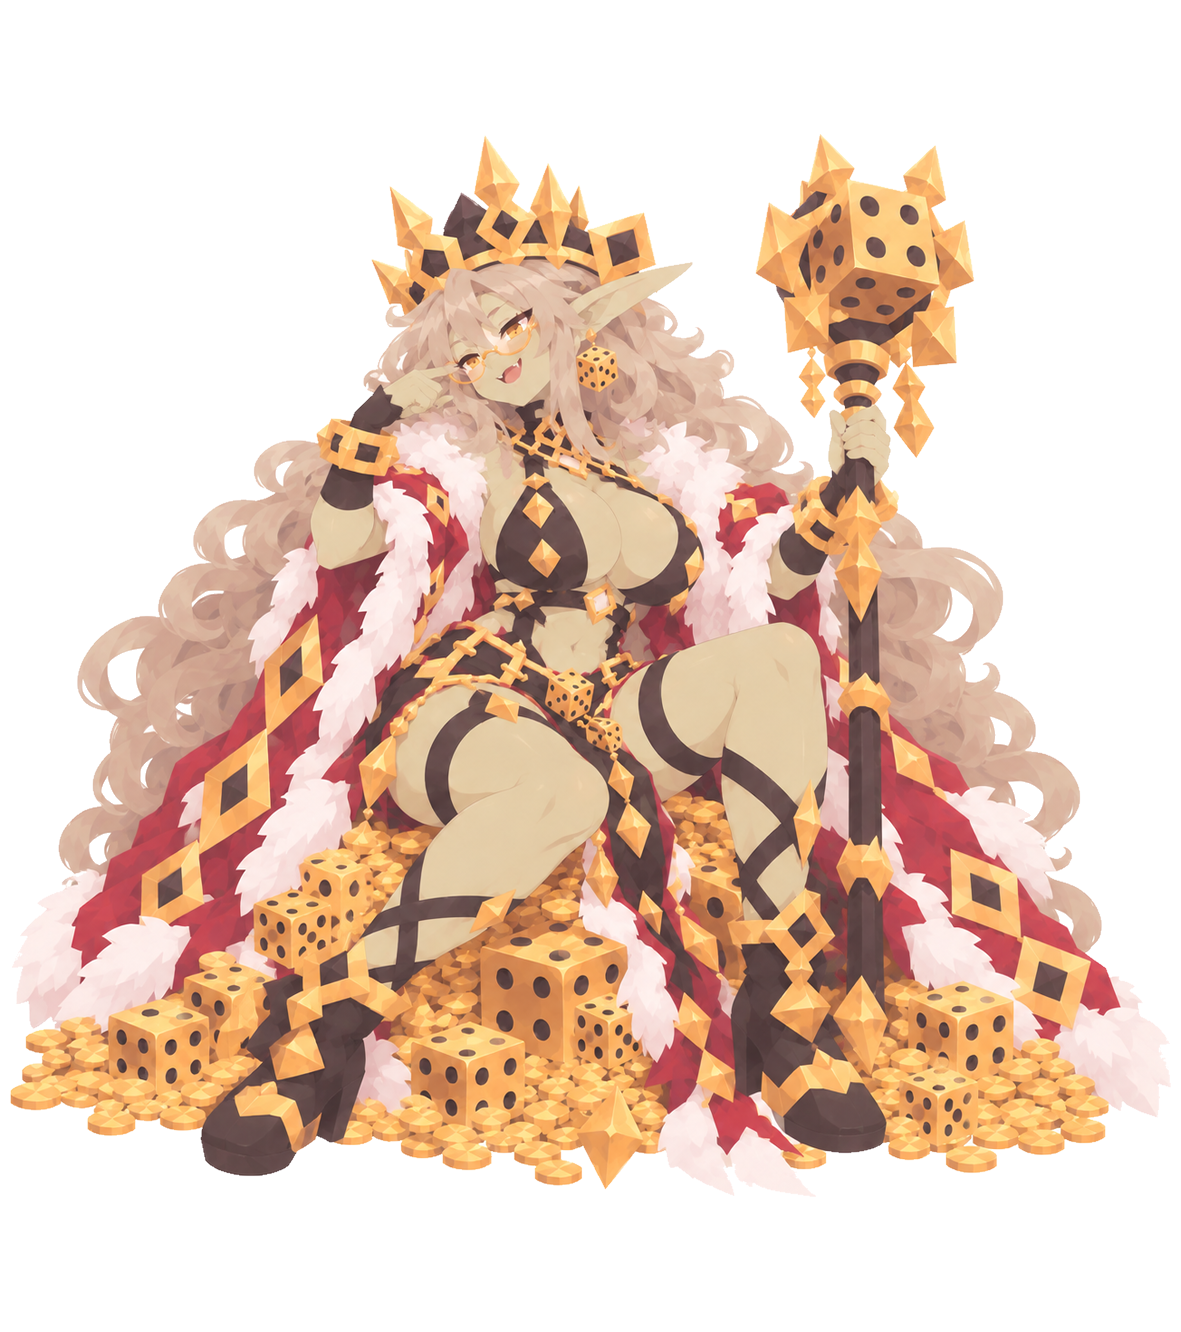
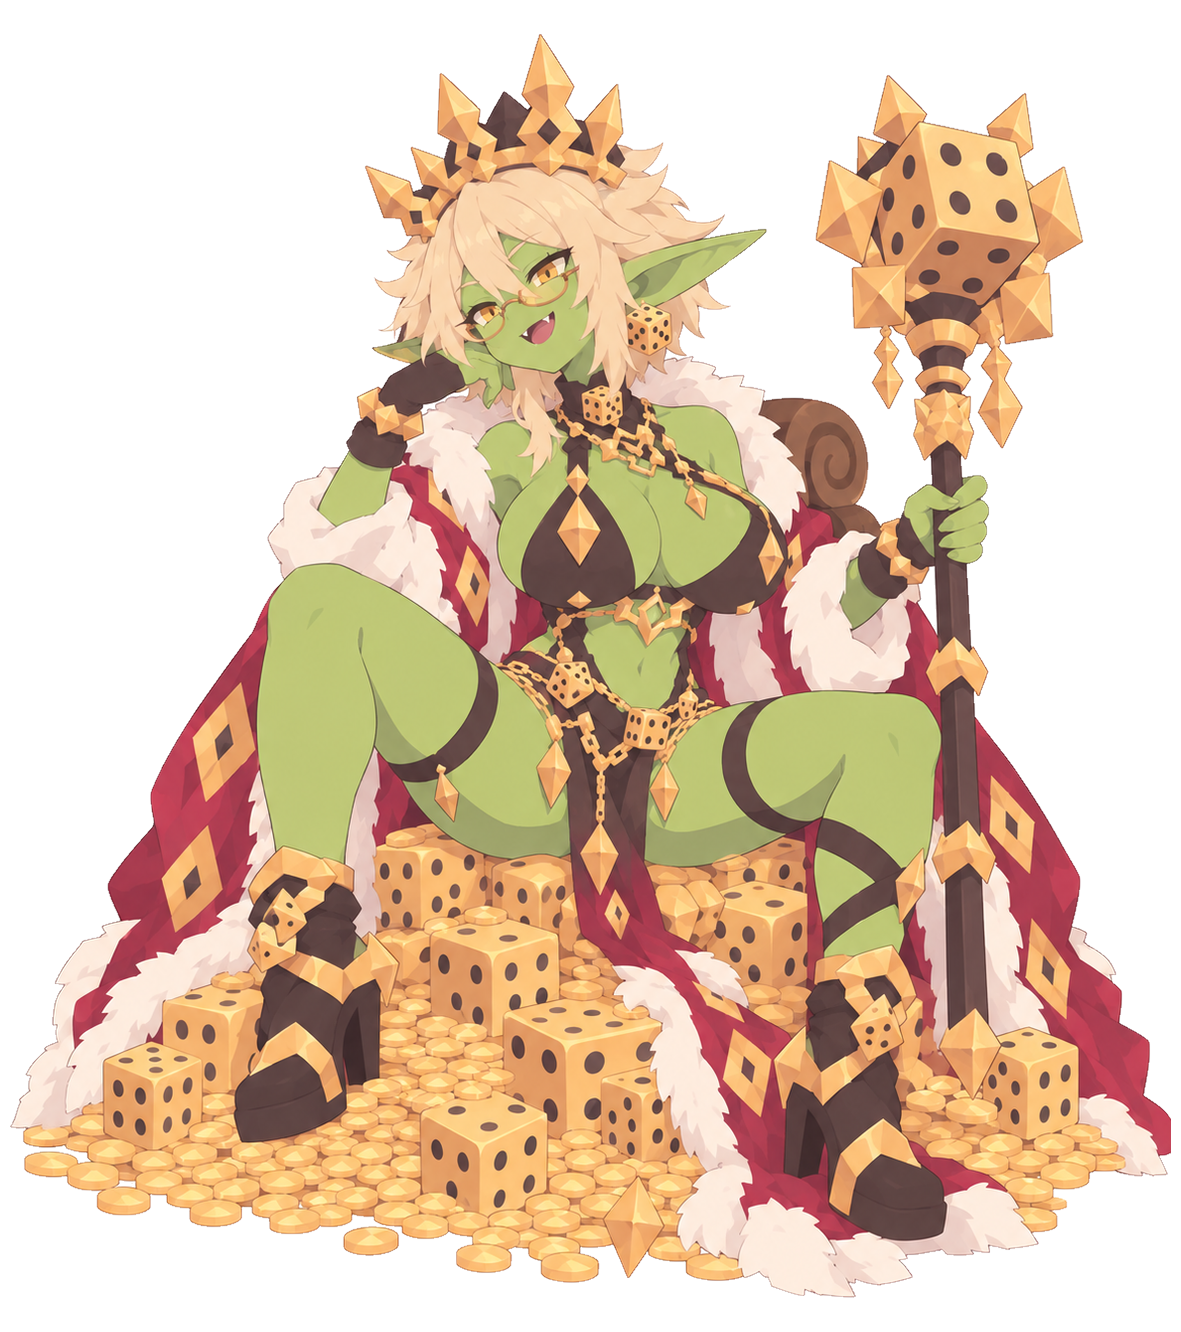
feat(art): 고블린 왕 최종 확정 — 셀프컷 더벅머리·편하게 앉은 자세·초록 피부 고블린 아인

diff --git a/docs/art/ART_RESOURCES.md b/docs/art/ART_RESOURCES.md
@@ -658,13 +658,13 @@ Work는 `resources/ui/` 이미지가 있으면 StyleBoxTexture로 쓰고, 없으
 
 | 순서 | 대상 | 모은 요청 | 상태 |
 |---|---|---|---|
-| 1 | 고블린 왕 | (2차 피드백) 헤어 재시안 — 긴 웨이브 금지, 무식하고 관리 안 된 느낌. 포즈는 확정본(앉은 자세) 유지 | 시안 D/E/F 제출(`qa_out/r3/gk_hair.png`) — 선택 대기 |
-| 2 | 영계의 지배자 | 헤어 B(가는 트윈테일) 킵 + A 히메컷 **롱 버전** + 다른 헤어 여러 개. 포즈 ①(목 꺾임) 기준, 머리·몸 뒤틀림 조정, 다리는 꺾이듯 무너진 느낌(실제 골절 아님). 검은 배경 | 2차 시안 5종 제출(B·A롱·떠오르는 롱·울프컷·로우번, `qa_out/r3/sg_hair2.png`) — 선택 대기 |
+| 1 | 고블린 왕 | ✅ 2026-10-21 **최종 확정·적용** (셀프컷 더벅머리, 다리 벌려 앉기, 초록 피부 고블린 아인. 원본 `_reference/monsters/goblin_king/mo_goblin_king_full_v7.png`, 이전본 `full_before_r3.png`). (3차) **헤어 D(셀프컷 더벅머리) 채택** — 나뭇가지·잎 제거, 다리 편하게 벌려 앉기, 피부 균일한 초록의 확실한 고블린 아인. (2차) 헤어 재시안 — 긴 웨이브 금지, 무식하고 관리 안 된 느낌. 포즈는 확정본(앉은 자세) 유지 | 시안 D/E/F 제출(`qa_out/r3/gk_hair.png`) — 선택 대기 |
+| 2 | 영계의 지배자 | (4차) 피부는 짙은 잿빛 말고 창백한 잿빛. 목각 인형처럼 목·다리가 꺾인 모양새로 섬뜩하게. (3차) **헤어 H(울프컷) 채택** — 정면 응시, 더 섬뜩한 웃음, 가슴 훨씬 작게, 피부는 어두운 잿빛, 맨발. (2차) 헤어 B(가는 트윈테일) 킵 + A 히메컷 **롱 버전** + 다른 헤어 여러 개. 포즈 ①(목 꺾임) 기준, 머리·몸 뒤틀림 조정, 다리는 꺾이듯 무너진 느낌(실제 골절 아님). 검은 배경 | 2차 시안 5종 제출(B·A롱·떠오르는 롱·울프컷·로우번, `qa_out/r3/sg_hair2.png`) — 선택 대기 |
 | 3 | 광란의 마수 | 헤어 사자갈기 + 엎드려 덮치기 직전 자세 | 시안 2종 제출(`qa_out/r3/fb.png`) — 선택 대기 |
-| 4 | 타락한 기사단장 | 헤어 단발. 포즈 ③(검을 어깨에 걸침) 킵 — 꺾인 검 수정. 다른 자세도 추가 탐색 | 시안 3종 제출(③ 곧은 검 / 방패 뒤 검 짚기 / 방패 돌진, `qa_out/r3/fc2.png`) — 선택 대기 |
-| 5 | 공허의 눈 | 포즈 ③ 채택. 뒤 촉수 색을 어둡게 해서 캐릭터 실루엣이 드러나게(조형 단순화) | 수정본 제출(`qa_out/r3/ve2.png`) — 확인 대기 |
+| 4 | 타락한 기사단장 | (4차) 다시 그림 — 머리가 눌려 납작해 보임, 무기 디자인 재고. 옷은 찢기지 않고 정돈되게, 노출도는 유지하되 부분 갑옷으로 단단한 느낌. (3차) **검 꽂은 자세(시안 2) 채택** — 방패를 검 앞쪽에 기대 세움(검이 가려짐). (2차) 헤어 단발. 포즈 ③(검을 어깨에 걸침) 킵 — 꺾인 검 수정. 다른 자세도 추가 탐색 | 시안 3종 제출(③ 곧은 검 / 방패 뒤 검 짚기 / 방패 돌진, `qa_out/r3/fc2.png`) — 선택 대기 |
+| 5 | 공허의 눈 | (4차) 의자·몸·헤어 셰이프가 섞여 불분명 → 복잡도 낮춰 구분되게. 맨발 대신 고급스러운 신발. (3차) 촉수 어둡게 한 수정본 기준, 골반·다리 방향을 돌아간 허리에 맞춰 뒤틀림 해소. (2차) 포즈 ③ 채택. 뒤 촉수 색을 어둡게 해서 캐릭터 실루엣이 드러나게(조형 단순화) | 수정본 제출(`qa_out/r3/ve2.png`) — 확인 대기 |
 | 6 | 점액 군주 | 포즈 ②/③ 사용자 선택 대기(①은 정책 차단) | 결정 대기 |
-| 7 | 일반 18종 + 암흑 늑대 | (재재작업) 화풍 기준을 **견습 모험가**로 — 지금은 너무 세밀함. 얼굴 개성 부여, 언데드 헤어 다양화(꼬인 긴 머리만 X), 좀비 얼굴이 검게 나오는 문제, 구울은 냄새나는 표정+연기 강조, 짐승형은 해당 짐승 특징이 더 드러나게(몬스터 무스메 느낌). 1차 재작업(2026-10-21)은 `_reference/monsters/<id>/full_before_restyle.png`가 원본 | 대기 |
+| 7 | 일반 18종 + 암흑 늑대 | (3차, 시범 4종 피드백) 좀비·구울 방향 OK. 고블린 계열은 초록 피부의 확실한 아인, 탐욕적·야만적. 구울은 의상을 좀비와 다르게, 침 흘리고 지저분하게, 가스가 차서 더 볼륨 있게. 늑대는 하체 전부 짐승 형태, 털이 복부 근처까지. (재재작업) 화풍 기준을 **견습 모험가**로 — 지금은 너무 세밀함. 얼굴 개성 부여, 언데드 헤어 다양화(꼬인 긴 머리만 X), 좀비 얼굴이 검게 나오는 문제, 구울은 냄새나는 표정+연기 강조, 짐승형은 해당 짐승 특징이 더 드러나게(몬스터 무스메 느낌). 1차 재작업(2026-10-21)은 `_reference/monsters/<id>/full_before_restyle.png`가 원본 | 대기 |
 | 8 | 보스 6종 표정 세트 | 포즈·헤어 확정 후 | 대기 |
 | 9 | 스킬 아이콘 61종 리디자인 | 시안 A/B/C 방향 결정 후 | 대기 |
 | 10 | 이벤트 일러스트 16종 `resources/events/<id>.png` | 2026-10-21 Work 발주(96bf013, `docs/STATUS.md` "스토리/특수 이벤트 일러스트 발주 목록"). 캐릭터 원화 그림체, 가장자리 페이드로 화면 좌하단에 표시. **비율: 특수 이벤트 8종(판정·전용) 7:6 = 슬롯 420×360 / 스토리 8종 3:2 = 슬롯 420×290** (Work 2026-10-21 확인). 스토리 8 + 판정 4 + 캐릭터 전용 4(해적·곡예사·광전사·수호자) | 대기 |
@@ -739,6 +739,7 @@ Work는 `resources/ui/` 이미지가 있으면 StyleBoxTexture로 쓰고, 없으
 | 2026-10-19 | **캐릭터 표정 개성 강화 v2** (사용자 성격 가이드 대조 — 견습 모험가·광전사·매혹사·해적은 이미 부합해 유지. 곡예사=깐죽대는 smug, 수호자=차가운 쿨데레, 폭발병=소악마 빌런, 주술사=음침·음흉 오타쿠로 5장씩 재생성, 구도는 기존 neutral 템플릿 유지) | `resources/characters/{juggler,guardian,explosive,shieldbearer}/face_*.png` 교체(v1은 `_reference/characters/<id>/v1/`) | `qa_out/art_<id>_face_v2.png` |
 | 2026-10-20 | **보스 5종 v4 수정** (사용자 피드백): 점액 군주=몸까지 전부 점액 / 해골 장군→**영계의 지배자** 개명, 헤진 옷·해골 동공·왼눈 보석, 보라 영혼불 #8E6BD1 / 광란의 마수=체모·맹수 손발·고양이 눈·톱니 이빨, 광전사와 차별(어두운 털+진홍 갈기) / 타락한 기사단장=칼자국·베인 서클렛(배신자 표식), 검은 강철+잿불 주황 #B5652A / 공허의 눈=크툴루 심해 컨셉, 짙은 청록 #0F4C5C+촉수·눈. 퍼스널 컬러 중복 제거(녹/보라/진홍/주황/청록/금) | `resources/monsters/<boss>/full.png` 교체 | `qa_out/art_boss_v4_lineup.png` |
 | 2026-10-20 | **보스 6종 v5 확정** (3-8 설정표 기준): 고블린 왕 안경+지팡이(팔 오류 2회 수정) / 영계의 지배자 4기사 모티브·슬림 체형 / 광란의 마수 광전사 언니 설정·버건디 #5E1A2A / 타락한 기사단장 바이저 마스크·얼굴 흉터·수호자 기사단 갑옷 / 공허의 눈 창백한 피부·X 흉터 안의 눈(B안 채택). 점액 군주는 v4 유지 | `resources/monsters/<boss>/full.png` 교체 | `qa_out/art_boss_v5_lineup.png` |
+| 2026-10-21 | **고블린 왕 최종 확정** (대기열 3-10 #1, 사용자 확인): 셀프컷 더벅머리, 다리를 편하게 벌려 앉은 자세, 균일한 초록 피부의 고블린 아인, 견습 모험가 기준 화풍. 원본 `_reference/monsters/goblin_king/mo_goblin_king_full_v7.png` | `resources/monsters/goblin_king/full.png` (코드 수정 없이 자동 적용). 보스 표정 세트(#8)는 아직 이전 디자인 기준 | `qa_out/r3/b4_new.png` |
 
 ---
 
